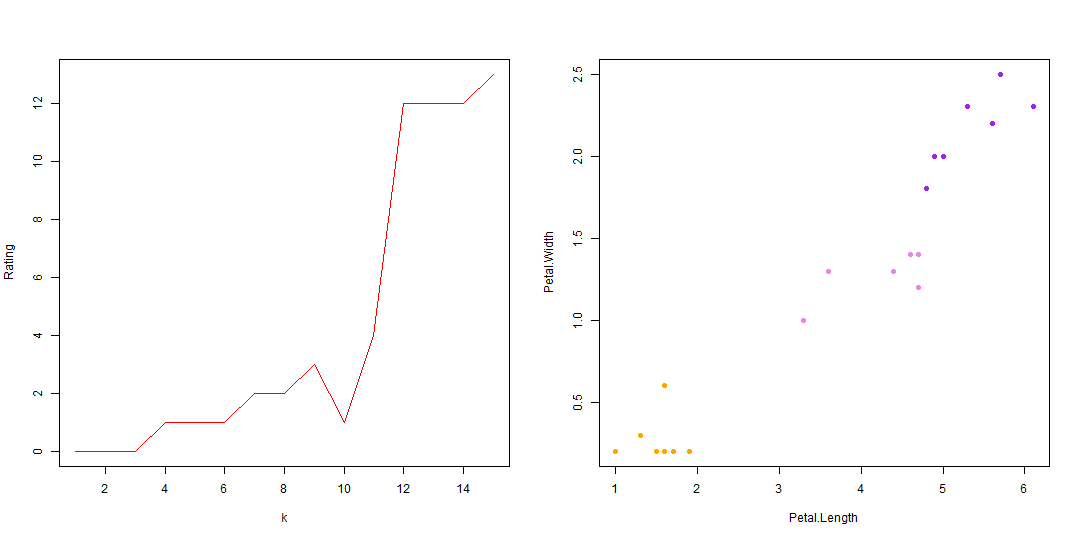
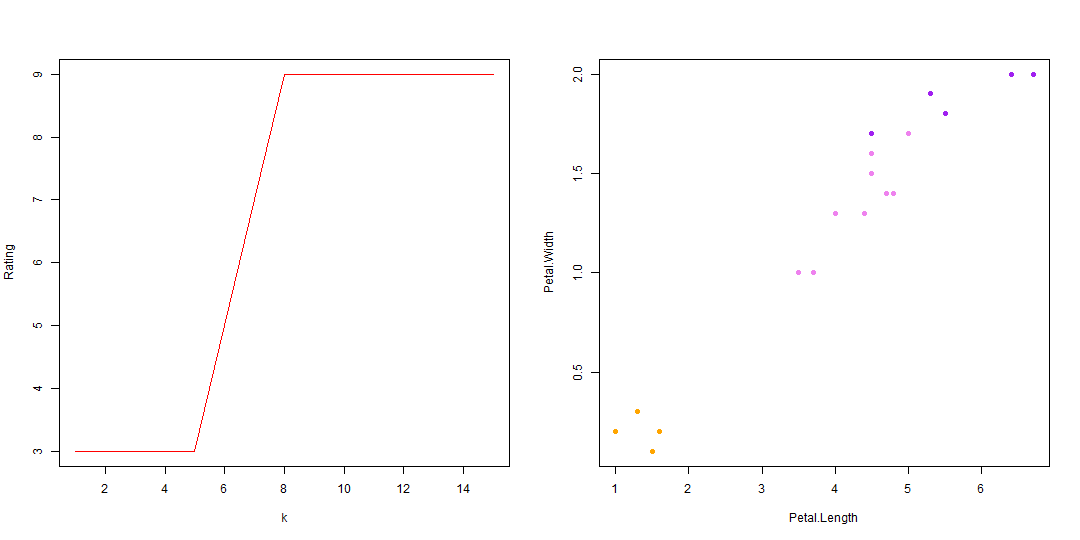
kwNN + map + e^(-x)

diff --git a/README.md b/README.md
@@ -5,7 +5,10 @@ kNN
 -----------------------------
 Алгоритм находит ближайшие k обучающих точек относительно искомой и классифицирует её исходя из частоты встретившихся классов из этих точек.
 
+Класификация пяти случайных точек алгоритмом 1NN.
 ![1NN - график для 5 точек](1NN_plot.png)
+
+Карта классификации для алгоритма 6NN
 ![6NN карта](6NN_map_plot.png)
 > Спортивная классика:
 
@@ -31,3 +34,44 @@ kNN <- function(dat, point, k = 1)
 
 Скользящая оценка алгоритма.
 ![LOO для kNN - оценка для kNN](LOO_kNN_plot.png)
+
+kwNN
+-----------------------------------
+~~КВН~~
+
+Алгоритм работает подобно алгоритму kNN, но для определения класса искомой точки использует не наиболее встречающийся класс из k ближайших точек, а считает сумму весов из ближайших обучающих точек для каждого класса. По наибольшей сумме весов определяется класс точки.
+
+Пример функции весов e^(-x/1000)
+![W(x) function](w_func.png)
+
+```R
+#dat - данные в формате: список векторов типа [ x1, x2, ... , xn, class]
+#где x1, ..., xn - координаты екземпляра
+#point - данные в формате: [ x1, x2, ... , xn]
+#по умолчанию k=1
+kwNN <- function(dat, point, k = 1)
+{
+    #в качестве функции весов берем убывающую неотрицательную e^(-x/1000)
+    w <- exp(-1:-k)
+
+    #сортируем по расстоянию
+    orderedDat <- dist_sort(dat, point, dist_func)
+    n <- dim(orderedDat)[2] - 1
+
+    #создаем счетчик весов для классов
+    classes = rep(0, length(levels(orderedDat[, n+1])))
+
+    #прибавляем веса к счетчику исходя из ближайших найденых классов
+    for(i in 1:k){
+        classes[orderedDat[i, n+1]] = classes[orderedDat[i, n+1]] + w[i]
+    }
+
+    #определяем максимальный счетчик, и привязаный к нему класс
+    class <- levels(orderedDat[, n+1])[which.max(classes)]
+
+    return (class)
+}
+```
+
+Скользящая оценка алгоритма и карта для 6wNN.
+![LOO для kwNN - оценка для kwNN](LOO_kwNN_plot.png)
